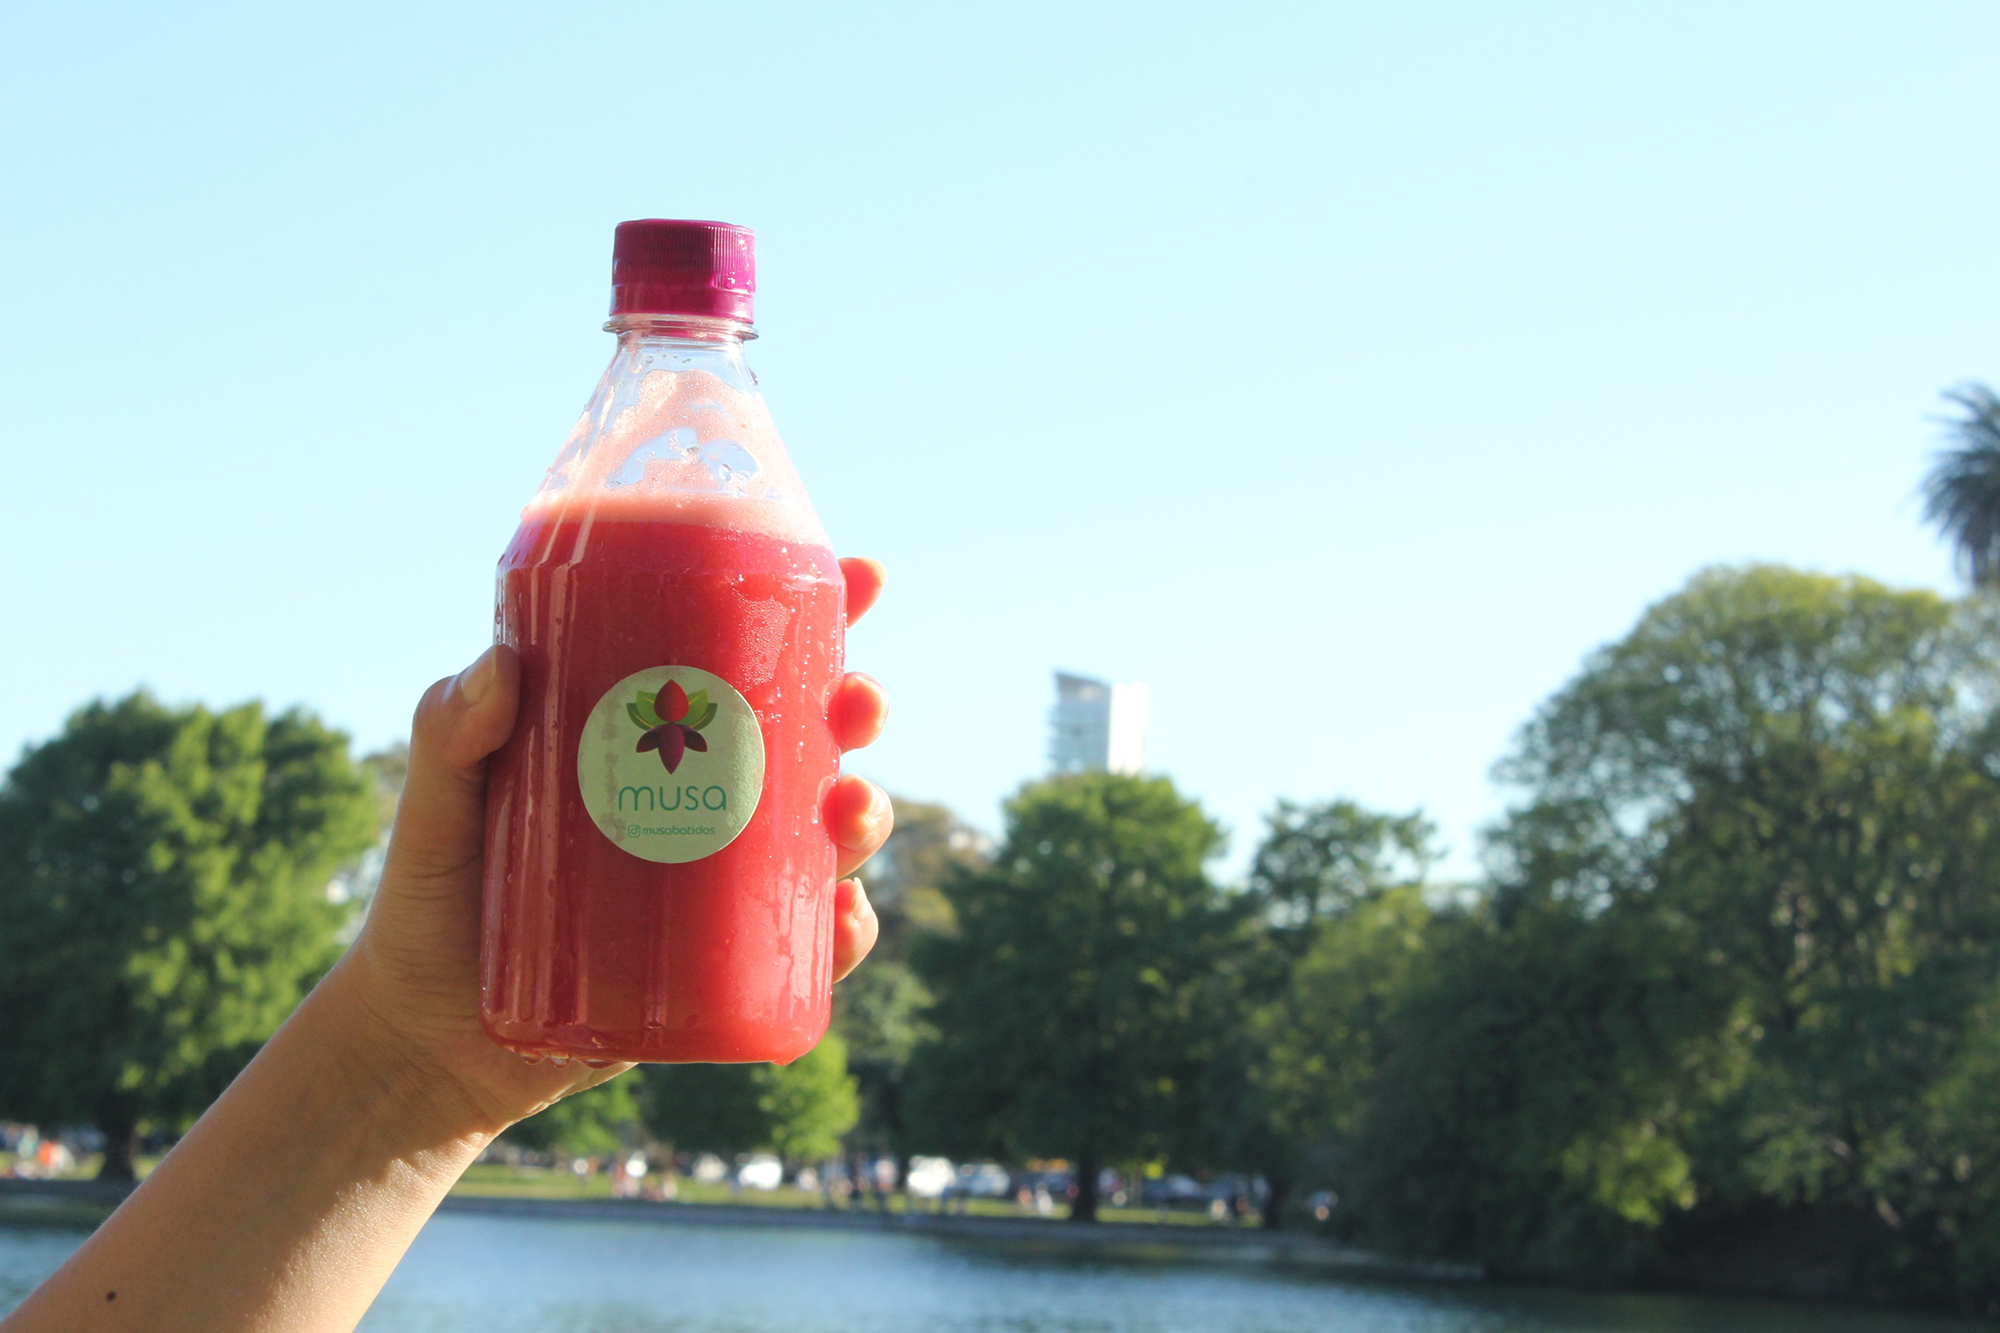
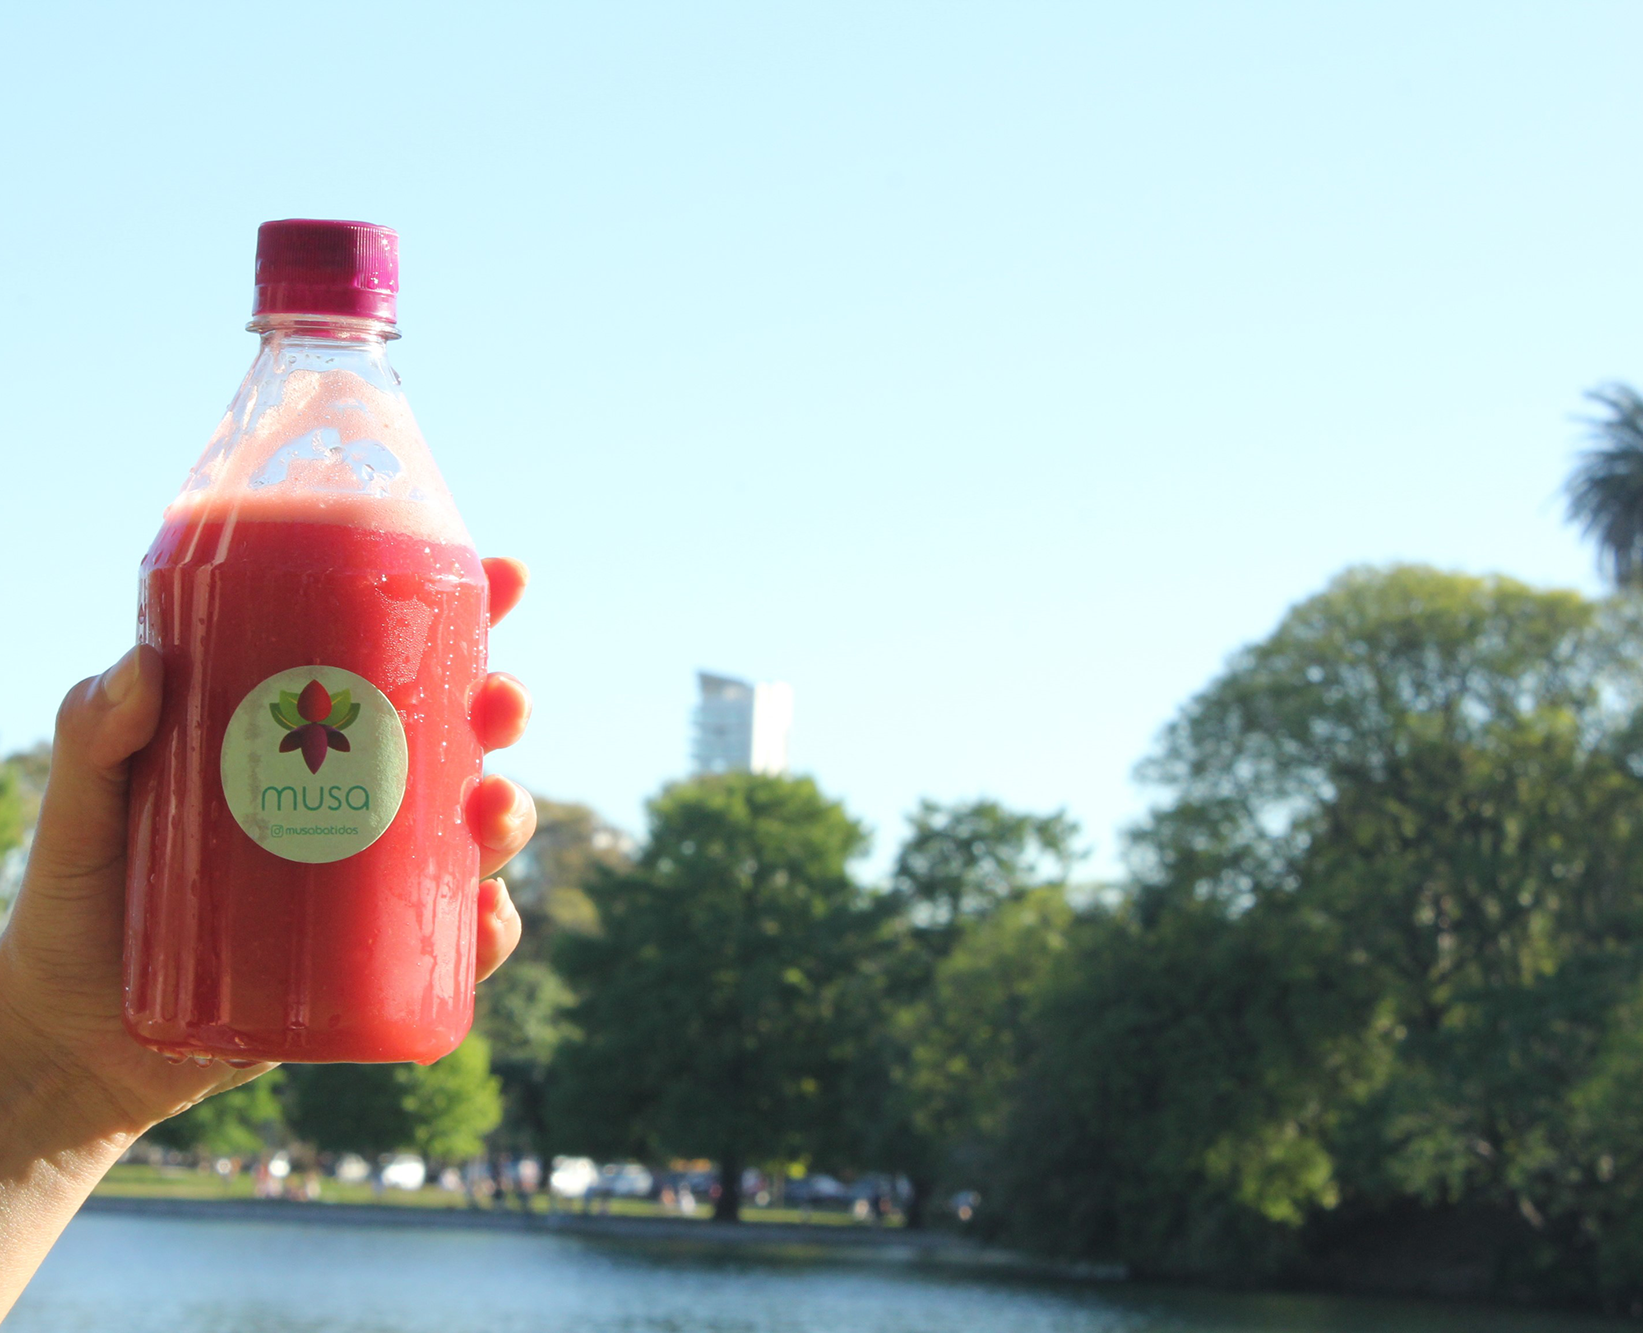
correcion imgs y tamaños

diff --git a/pedidos.html b/pedidos.html
@@ -59,6 +59,7 @@
                 <a class="nav-link dropdown-toggle" href="combinaciones.html" id="offcanvasNavbarDropdown" role="button"
                   data-bs-toggle="dropdown" aria-expanded="false">Combinaciones</a>
                 <ul class="dropdown-menu" aria-labelledby="offcanvasNavbarDropdown">
+                  <li><a class="dropdown-item" href="combinaciones.html">Combinaciones</a></li>
                   <li><a class="dropdown-item" href="combinaciones.html#cayena">Cayena</a></li>
                   <li><a class="dropdown-item" href="combinaciones.html#bayana">Bayana</a></li>
                   <li><a class="dropdown-item" href="combinaciones.html#moya">Moya</a></li>
@@ -83,7 +84,7 @@
 
   <!-- INICIO DEL BODY -->
   <main>
-    <section>
+    <section> 
       <img src="/img/cayena2.png" alt="botella-de-jugo-musa">
       <h1>Podés ordenar desde el formulario acá abajo</h1>
       <h2>Tomamos pedidos con una antelación mínima de dos horas, ¡También tenemos take-away, y delivery en todo

diff --git a/css/style.css b/css/style.css
@@ -340,7 +340,7 @@
     padding-left: 6vw;
     width: 100vw;
     height: 100vh;
-    background-image: url(/img/Bosques2.png);
+    background-image: url(/img/Bosques21.png);
     background-size: cover;
     background-repeat: no-repeat;
     background-attachment: fixed;
@@ -383,6 +383,7 @@
       align-content: center; }
       #bodycombinaciones .sec-comb1 {
         padding-top: 10vh;
+        background-image: url(/img/Bosques2.png);
         background-size: cover;
         background-repeat: no-repeat;
         background-attachment: fixed;
@@ -561,7 +562,7 @@
       #bodycontacto .sec-contacto3 h6 {
         text-align: center;
         width: 76vw;
-        font-size: 2.3vw;
+        font-size: 2.5vw;
         color: #28486f; } }
 
 #bodyindex header, #bodysobremusa header, #bodycombinaciones header, #bodypedidos header, #bodycontacto header {

diff --git a/contacto.html b/contacto.html
@@ -59,6 +59,7 @@
                 <a class="nav-link dropdown-toggle" href="combinaciones.html" id="offcanvasNavbarDropdown" role="button"
                   data-bs-toggle="dropdown" aria-expanded="false">Combinaciones</a>
                 <ul class="dropdown-menu" aria-labelledby="offcanvasNavbarDropdown">
+                  <li><a class="dropdown-item" href="combinaciones.html">Combinaciones</a></li>
                   <li><a class="dropdown-item" href="combinaciones.html#cayena">Cayena</a></li>
                   <li><a class="dropdown-item" href="combinaciones.html#bayana">Bayana</a></li>
                   <li><a class="dropdown-item" href="combinaciones.html#moya">Moya</a></li>

diff --git a/index.html b/index.html
@@ -60,6 +60,7 @@
                 <a class="nav-link dropdown-toggle" href="combinaciones.html" id="offcanvasNavbarDropdown" role="button"
                   data-bs-toggle="dropdown" aria-expanded="false">Combinaciones</a>
                 <ul class="dropdown-menu" aria-labelledby="offcanvasNavbarDropdown">
+                  <li><a class="dropdown-item" href="combinaciones.html">Combinaciones</a></li>
                   <li><a class="dropdown-item" href="combinaciones.html#cayena">Cayena</a></li>
                   <li><a class="dropdown-item" href="combinaciones.html#bayana">Bayana</a></li>
                   <li><a class="dropdown-item" href="combinaciones.html#moya">Moya</a></li>

diff --git a/sobremusa.html b/sobremusa.html
@@ -59,6 +59,7 @@
                 <a class="nav-link dropdown-toggle" href="combinaciones.html" id="offcanvasNavbarDropdown" role="button"
                   data-bs-toggle="dropdown" aria-expanded="false">Combinaciones</a>
                 <ul class="dropdown-menu" aria-labelledby="offcanvasNavbarDropdown">
+                  <li><a class="dropdown-item" href="combinaciones.html">Combinaciones</a></li>
                   <li><a class="dropdown-item" href="combinaciones.html#cayena">Cayena</a></li>
                   <li><a class="dropdown-item" href="combinaciones.html#bayana">Bayana</a></li>
                   <li><a class="dropdown-item" href="combinaciones.html#moya">Moya</a></li>

diff --git a/combinaciones.html b/combinaciones.html
@@ -59,6 +59,7 @@
                 <a class="nav-link dropdown-toggle" href="combinaciones.html" id="offcanvasNavbarDropdown" role="button"
                   data-bs-toggle="dropdown" aria-expanded="false">Combinaciones</a>
                 <ul class="dropdown-menu" aria-labelledby="offcanvasNavbarDropdown">
+                  <li><a class="dropdown-item" href="combinaciones.html">Combinaciones</a></li>
                   <li><a class="dropdown-item" href="#cayena">Cayena</a></li>
                   <li><a class="dropdown-item" href="#bayana">Bayana</a></li>
                   <li><a class="dropdown-item" href="#moya">Moya</a></li>

diff --git a/scss/pages/_combinaciones.scss b/scss/pages/_combinaciones.scss
@@ -7,7 +7,7 @@
     padding-left: 6vw;
     width: $width100;
     height: $height100;
-    background-image: url(/img/Bosques2.png);
+    background-image: url(/img/Bosques21.png);
     @include background;
     background-position:center;
     h1 {
@@ -73,6 +73,7 @@
     @include flexcolumn;
     .sec-comb1 {
       padding-top: $height10;
+      background-image: url(/img/Bosques2.png);
       @include background;
       background-position:left;
       h1 {

diff --git a/scss/pages/_contacto.scss b/scss/pages/_contacto.scss
@@ -112,7 +112,7 @@
       h6{
         text-align: center;
         width: $width80 -$size2;
-        font-size: $font-size2 +0.3vw;
+        font-size: $font-size2 +0.5vw;
         color: $color5;
       }
     }
